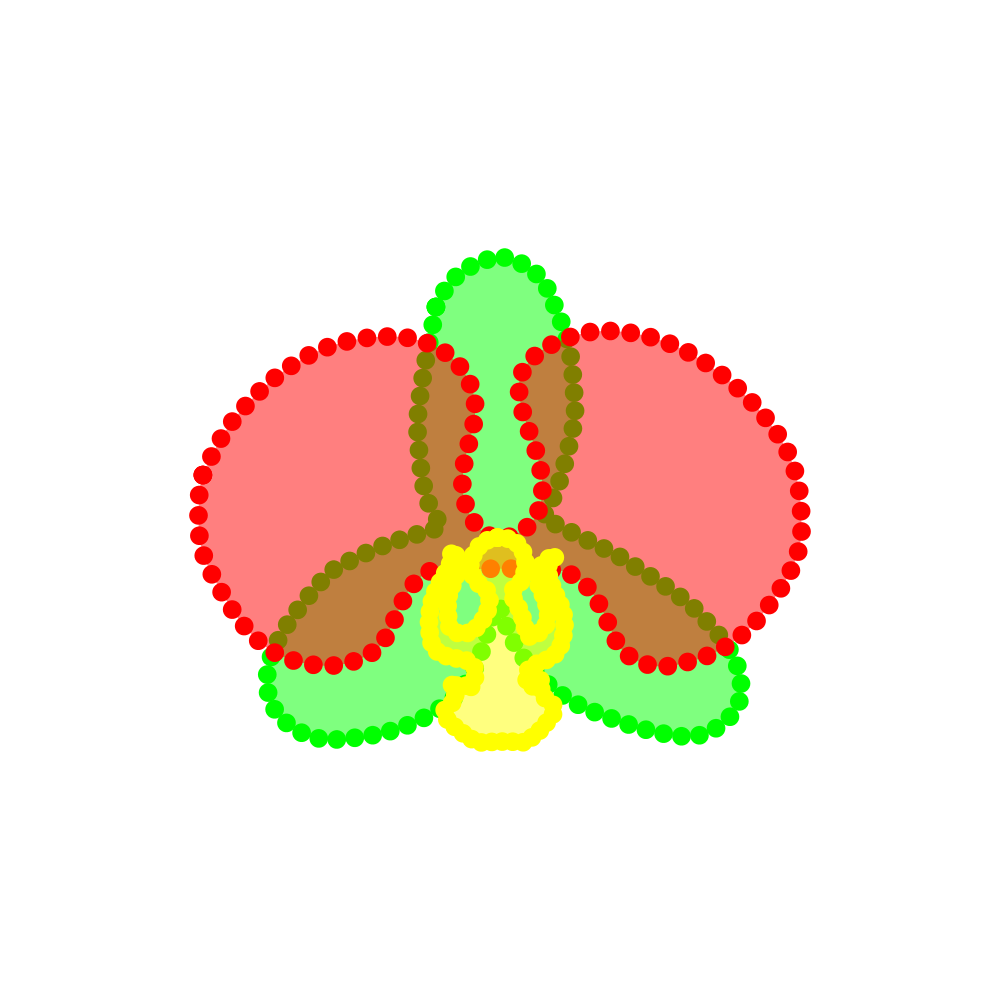
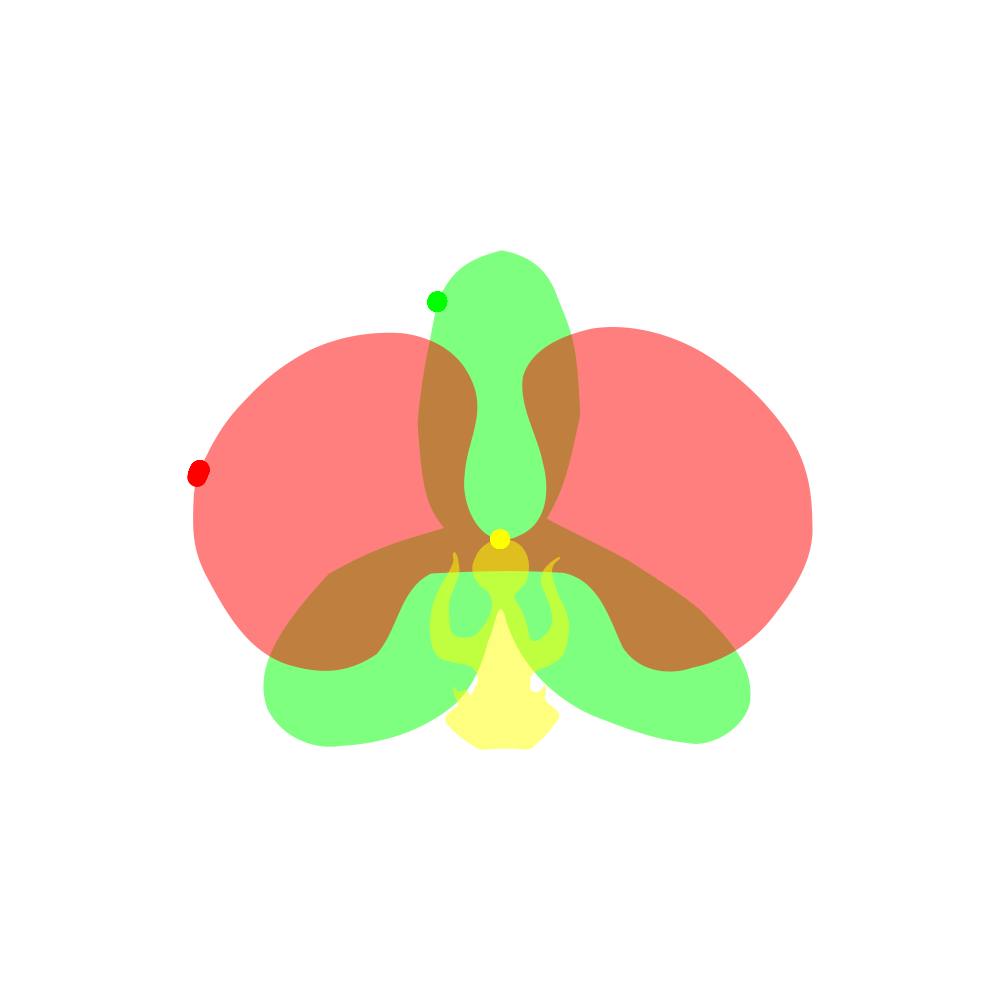
Add examples

Changed region(s): [[0.186, 0.248, 0.837, 0.775], [0.248, 0.372, 0.279, 0.403]]

diff --git a/examples/main_skybutterfly.py b/examples/main_skybutterfly.py
@@ -1,9 +1,10 @@
-from PVG import *
+from PVG              import *
+from circlepackingbao import *
 
-canvas = Canvas().background(Color.grey(0.9))
+canvas = Canvas().size(10000).background(Color.grey(0.9))
 parser = SVGParser().parse("halfbutterfly.svg")
 silhouettes = [layer.silhouette() for layer in parser.layers()]
-rcolor = Roller([Color.black(),Color.red(),Color.yellow()])
+rcolor = Roller([])
 
 sortlist = []
 for silhouette in silhouettes:
@@ -32,24 +33,26 @@ def drawcell(render,polygon,sym = True):
 
     polygon = polygon.clockwise()
 
-    def myfdraw(render,pattern,lastindex,newcolor):
-        newdrawing = (cscale( pattern.lastnode(), 0.9),newcolor)
+    def myfdraw(lastnode,lastindex,newcolor):
+        newdrawing = (cscale( lastnode, 0.9),newcolor)
         drawings.append(newdrawing)
         canvas.draw( newdrawing[0], newdrawing[1] )
 
     # rootnodes = circle2nodepair(Circle(polygon.middle(),2.0))
 
-    rpattern = [item for i in range(10,100) for item in [2.0] * i + [2.0]]
-    cpattern = [item for i in range(10,100) for item in [Color.white()] * i + [Color.red()]]
+    rpattern = [item for i in range(10,100) for item in [0.25] * i + [0.5]]
+    cpattern = [Color.hue2color(float(index)/20.0) for index in range(20)]
 
-    baopattern = BaoPattern().sidepattern([1.0]).radiuspattern(rpattern).colorpattern(cpattern)
+    baopattern = BaoPattern().radiuspattern(rpattern).colorpattern(cpattern).fdraw(myfdraw)
 
     # render.drawcircles(rootnodes,Color.green())
-    boundaries = [Circle(p,1.0) for p in polygon.lengthsamples(1.0)]
-    rootnodes  = lowercirclepair(boundaries)
+    boundaries = [Circle(p,0.25) for p in polygon.lengthsamples(0.5)]
+    rootnodes  = lreverse([c.scale(1.5) for c in lowercirclepair(boundaries)])
 
+    canvas.draw(boundaries,Color.green())
+    canvas.draw(rootnodes,Color.red())
 
-    result = CirclePackingBaoSwitch(rootnodes,baopattern,myfdraw).iter(render,rootnodes  + boundaries,100)
+    result = CirclePackingBao().iter(boundaries,rootnodes,baopattern,20)
 
 
 for silhouette in silhouettes:
@@ -67,7 +70,11 @@ for silhouette in silhouettes:
 
         for poly in polygons:
             drawcell(canvas,poly)
+            break
     else:
+        canvas.draw(silhouette.polygons()[0],Color.black())
         drawcell(canvas,silhouette.polygons()[0],False)
+    break
+
 
 canvas.save("main_skybutterfly.png")

diff --git a/examples/main_maxcirclepacking.py b/examples/main_maxcirclepacking.py
@@ -1,0 +1,11 @@
+from PVG              import *
+from maxcirclepacking import *
+
+canvas = Canvas()
+
+polygon = Circle().polygon(8).split(2)[0].close()
+
+canvas.draw(polygon,Color.red())
+canvas.draw(polygon.maxcircles(15))
+
+canvas.save("main_maxcirclepacking.png")

diff --git a/examples/main_circlepackingbao.py b/examples/main_circlepackingbao.py
@@ -1,4 +1,5 @@
 from PVG              import *
+from baopattern       import *
 from circlepackingbao import *
 
 canvas = Canvas()
